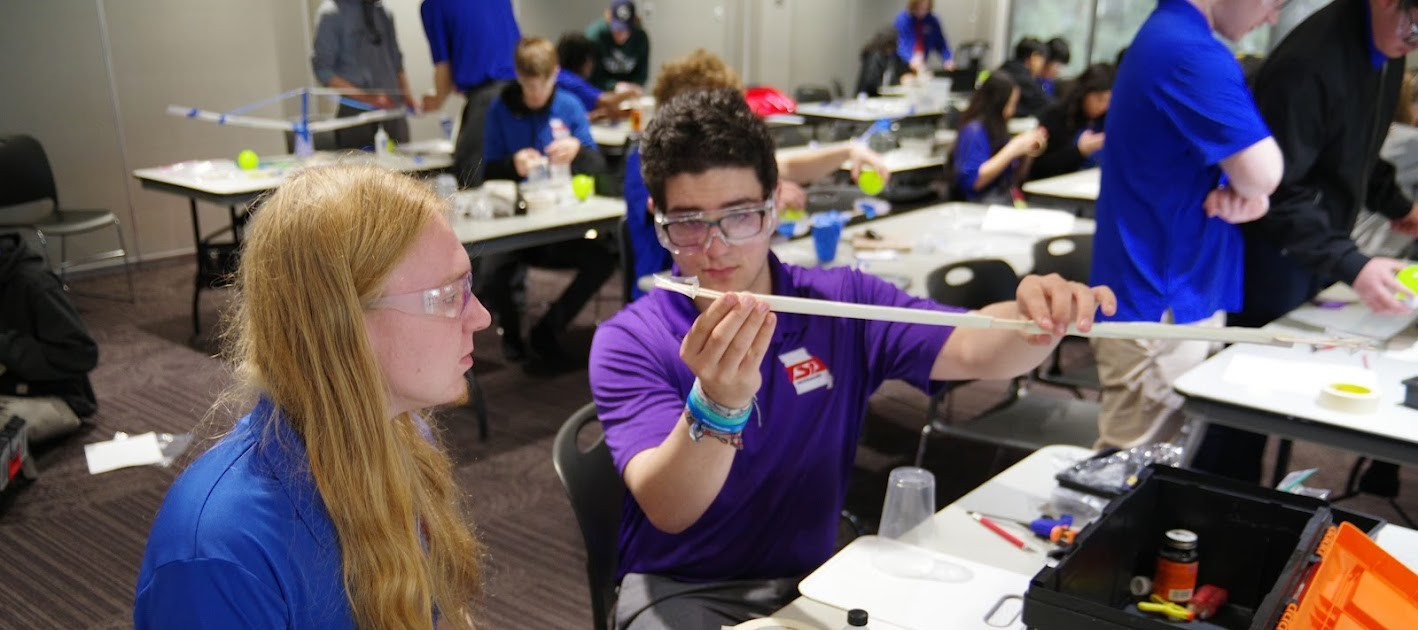
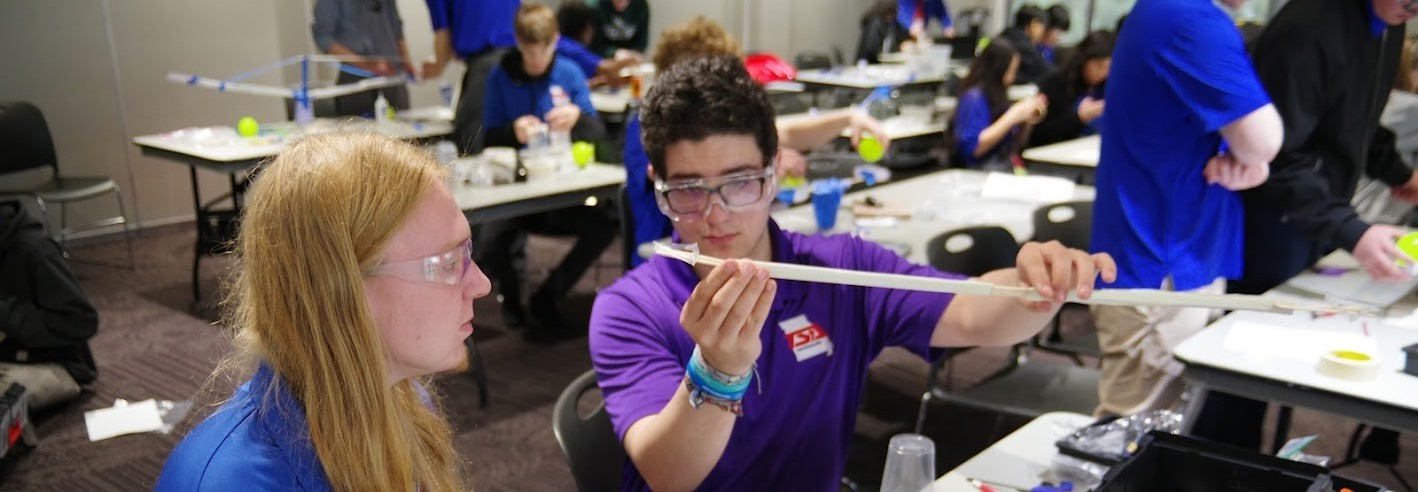
in progress events page

diff --git a/components/Header.js b/components/Header.js
@@ -28,6 +28,7 @@ export default function Header({ page }) {
     ];
 
     const eventsSubPages = [
+        {label: "Calendar", page: "/events/calendar"},
         {label: "State Championships", page: "/events/scc"},
         {label: "Fall Leadership Conference", page: "/events/flc"},
         {label: "Competitive Events Workshops", page: "/events/workshops"},
@@ -45,7 +46,7 @@ export default function Header({ page }) {
         {label: "Bylaws", page: "/resources/bylaws"},
         {label: "NewsLetter", page: "/resources/newsletter"},
         {label: "Billing/Late Fee", page: "/resources/billing"},
-        {label: "Calendar", page: "/resources/calendar"},
+        {label: "Calendar", page: "/events/calendar"},
         {label: "Gallery", page: "/resources/gallery"},
         {label: "Chapter Resources & Tips", page: "/advisors/resources"}
     ];
@@ -80,7 +81,10 @@ export default function Header({ page }) {
                     <a className={"text-2xl font-sans transition-transform duration-300 hover:underline " + ((page==="events") ? "text-red-500": "text-zinc-50")} href="/events">Conferences & Events</a>
                     <HeaderSubmenu pages={eventsSubPages}></HeaderSubmenu>
                 </div>
-                <a className={"text-2xl font-sans transition-transform duration-300 hover:underline " + ((page==="resources") ? "text-red-500": "text-zinc-50")} href="/resources">Resources</a>
+                <div className="relative group">
+                    <a className={"text-2xl font-sans transition-transform duration-300 hover:underline " + ((page==="resources") ? "text-red-500": "text-zinc-50")} href="/resources">Resources</a>
+                    <HeaderSubmenu pages={resourcesSubPages}></HeaderSubmenu>
+                </div>
                 <a className={"text-2xl font-sans transition-transform duration-300 hover:underline " + ((page==="contact") ? "text-red-500": "text-zinc-50")} href="/contact">Contact</a>
             </div>
 
@@ -141,16 +145,27 @@ export default function Header({ page }) {
                         </div>
                         {eventsOpen && (
                             eventsSubPages.map((page, index) => (
-                                <a href={page.page} key={index} className={"text-md "+ ((page==="advisors") ? "text-red-500": "text-zinc-50")}>
+                                <a href={page.page} key={index} className={"text-md "+ ((page==="events") ? "text-red-500": "text-zinc-50")}>
                                     {page.label}
                                 </a>
                             ))
                         )}
                     </div>
 
-                    <a href="/resources" className={"text-xl "+ ((page==="resources") ? "text-red-500": "text-zinc-50")}>
-                        Resources
-                    </a>
+
+                    <div className="flex flex-col w-full gap-0 justify-center items-center">
+                        <div>
+                            <a href="/resources" className={"text-xl "+ ((page==="resources") ? "text-red-500": "text-zinc-50")}>Resources</a>
+                            <p className="inline text-xl" onClick={() => setResourcesOpen(!resourcesOpen)}> &#x25BE; </p>
+                        </div>
+                        {resourcesOpen && (
+                            resourcesSubPages.map((page, index) => (
+                                <a href={page.page} key={index} className={"text-md "+ ((page==="resources") ? "text-red-500": "text-zinc-50")}>
+                                    {page.label}
+                                </a>
+                            ))
+                        )}
+                    </div>
 
                     <a href="/contact" className={"text-xl "+ ((page==="contact") ? "text-red-500": "text-zinc-50")}>
                         Contact

diff --git a/app/events/page.js b/app/events/page.js
@@ -9,20 +9,17 @@ export default function Home() {
     <div className="flex flex-col  items-center justify-center font-sans bg-[#040531]">
       <Header page={"events"}></Header>
       <main className="flex flex-1 w-full flex-col items-center justify-between bg-[#060852] sm:items-start"> 
-        <div className="flex flex-col w-full justify-between items-center h-full text-black bg-white">
-          <h1 className="text-5xl text-left px-[5%] pt-10 font-bold">News & Updates</h1>
-          <div className="flex flex-row w-full justify-between items-center h-100 px-10 py-12 gap-x-5">
-            <div className="flex flex-col w-full justify-start items-center h-full gap-y-5">
-              <GrayButton label={"2026-2027 State Officer Application Available"}></GrayButton>
-              <GrayButton label={"Competitive Events Workshop Registration Deadline: November 1, 2025"}></GrayButton>
-              <GrayButton label={"Meet your 2025-2026 State Officer Team"}></GrayButton>
-            </div>
-            <div className="flex flex-col w-full justify-start items-center h-full gap-y-5">
-              <GrayButton label={"2025-2026 Calendar of Events Released"}></GrayButton>
-              <GrayButton label={"2025-2026 Conference Forms Released"}></GrayButton>
-            </div>
-          </div>
-        </div>    
+        <div className="flex flex-col w-full relative">
+            <Image
+              className="object-cover object-center"
+              src="/students3.JPG"
+              alt="Next.js logo"
+              width={5000}
+              height={200}
+              priority
+              />
+            <div className="absolute bg-black/40 z-0 w-full inset-0"></div>
+        </div>   
       </main>
     </div>
   );

diff --git a/app/page.js b/app/page.js
@@ -35,7 +35,7 @@ export default function Home() {
               <GrayButton height="full" link="/students/apply" label={"2026-2027 State Officer Application Available"}></GrayButton>
               <GrayButton height="full" link="/events/workshops" label={"Competitive Events Workshop Registration Deadline: November 1, 2025"}></GrayButton>
               <GrayButton height="full" link="/students/officers" label={"Meet your 2025-2026 State Officer Team"}></GrayButton>
-              <GrayButton height="full" link="/resources/calendar" label={"2025-2026 Calendar of Events Released"}></GrayButton>
+              <GrayButton height="full" link="/events/calendar" label={"2025-2026 Calendar of Events Released"}></GrayButton>
               <GrayButton height="full" link="/advisors/forms" label={"2025-2026 Conference Forms Released"}></GrayButton>
           </div>
         </div> 
